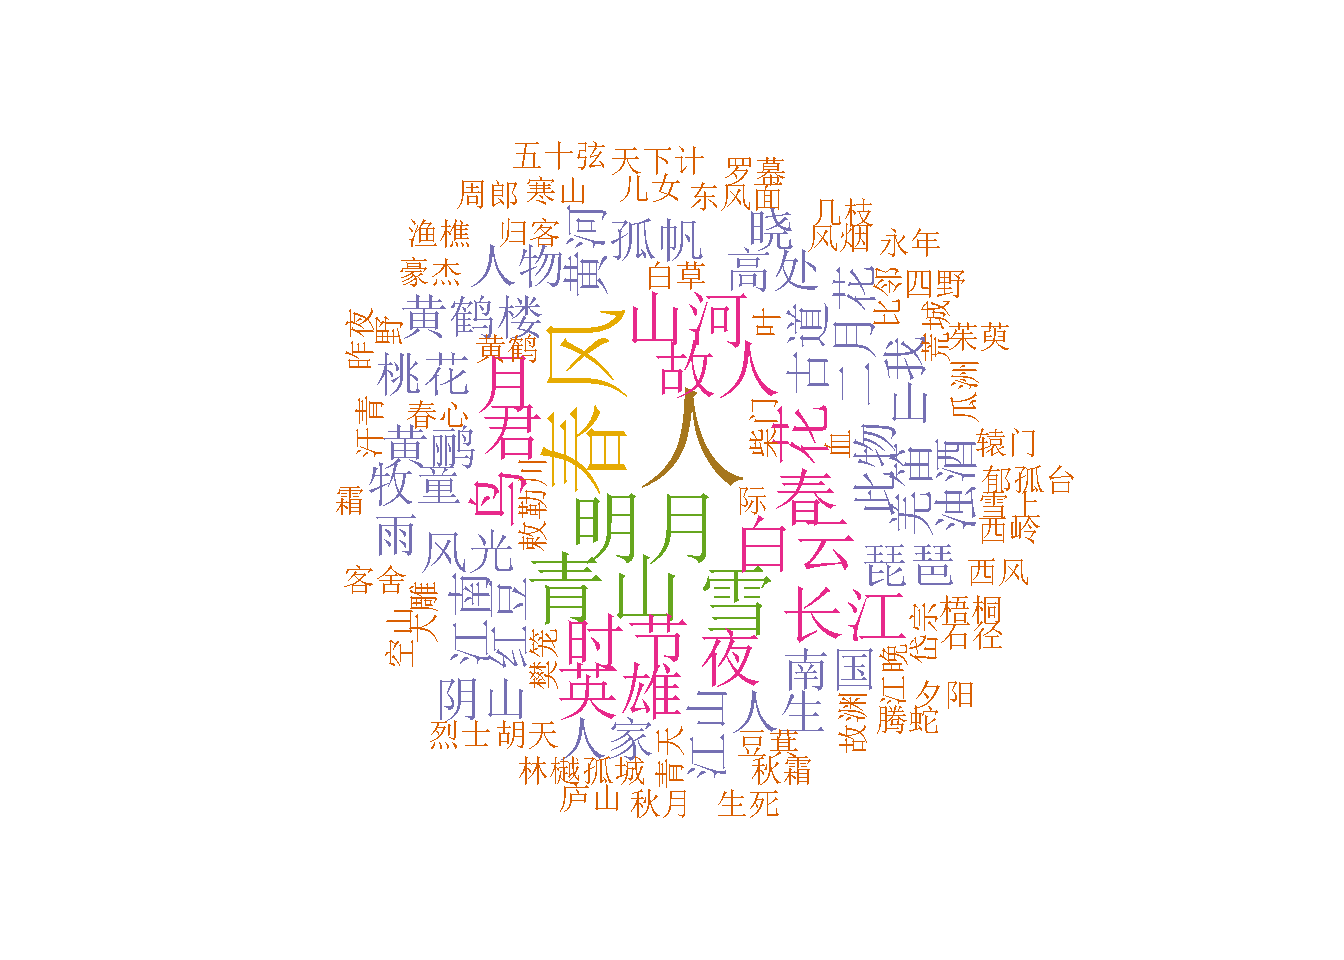
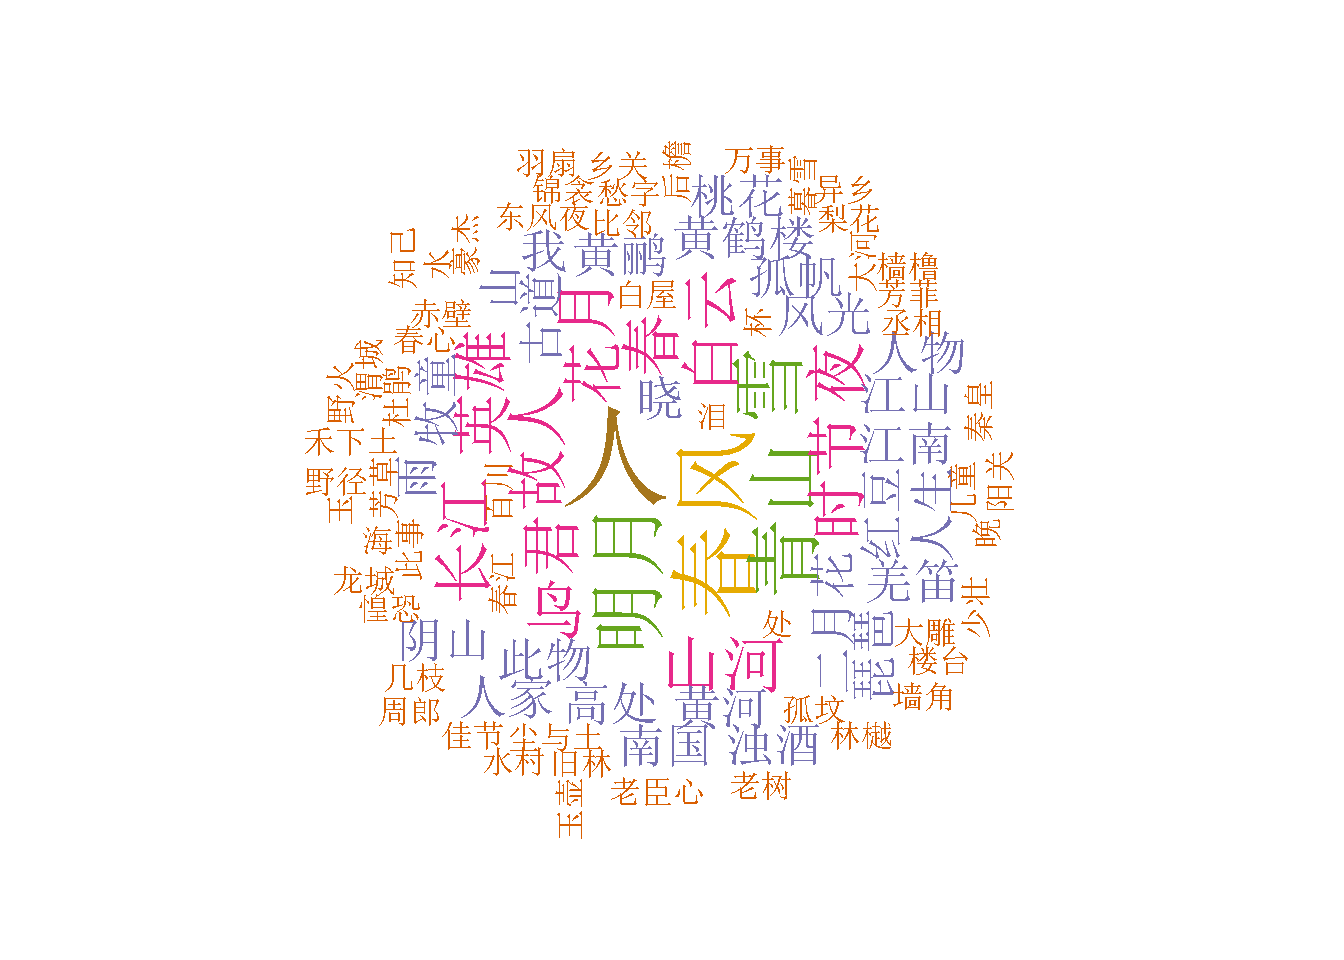
add tcm

Changed region(s): [[0.2188, 0.1562, 0.7812, 0.875]]

diff --git a/tcm.html b/tcm.html
@@ -11,7 +11,7 @@
 
 
 
-<title>Ancient Chinese Poems Exploration</title>
+<title>Traditional Chinese Medicines(TCM)</title>
 
 <script src="site_libs/header-attrs-2.16/header-attrs.js"></script>
 <script src="site_libs/jquery-3.6.0/jquery-3.6.0.min.js"></script>
@@ -279,63 +279,66 @@ $(document).ready(function () {
 
 
 
-<h1 class="title toc-ignore">Ancient Chinese Poems Exploration</h1>
+<h1 class="title toc-ignore">Traditional Chinese Medicines(TCM)</h1>
 
 </div>
 
 
-<hr />
 <div
-id="i-collected-famous-ancient-chinese-poems-and-mark-out-the-nouns-pronouns-verbs-adjectives-adverbs-quantifiers-words-then-do-the-exploration-recombination-maybe-re-creation"
+id="the-traditionalherbal-chinese-medicinestcm-have-been-applied-in-medical-field-in-oriental-countries-for-thousands-of-years-and-still-plays-important-roll-in-current-health-care-in-those-regions."
 class="section level3">
-<h3><strong><em>I collected famous ancient Chinese poems and mark out
-the nouns, pronouns, verbs, adjectives, adverbs &amp; quantifiers words,
-then do the exploration, recombination, maybe
-re-creation…</em></strong></h3>
-<div
-id="我收集了中国古诗词标出其中的名词代词动词形容词副词和量词做了高频词图"
+<h3><strong><em>The Traditional/Herbal Chinese Medicines(TCM) have been
+applied in medical field in oriental countries for thousands of years
+and still plays important roll in current health care in those
+regions.</em></strong></h3>
+<div id="中医在东方应用了数千年对当地人的健康起了重要影响"
 class="section level4">
-<h4><strong><em>我收集了中国古诗词，标出其中的名词、代词、动词、形容词、副词和量词，做了高频词图</em></strong></h4>
+<h4><strong><em>中医在东方应用了数千年，对当地人的健康起了重要影响</em></strong></h4>
+</div>
+</div>
+<div
+id="although-the-theories-looks-different-from-modern-medicine-there-are-thousands-of-herbs-used-prescriptions-developed-for-treatment-and-quite-amount-of-them-are-considered-effective."
+class="section level3">
+<h3><strong><em>Although the theories looks different from modern
+medicine, there are thousands of herbs used &amp; prescriptions
+developed for treatment, and quite amount of them are considered
+‘effective’.</em></strong></h3>
+<div
+id="尽管中医理论异于现代医学其中数千草药数万药方的治疗功效还是明显的"
+class="section level4">
+<h4><strong><em>尽管中医理论异于现代医学，其中数千草药、数万药方的治疗功效还是明显的</em></strong></h4>
+</div>
+</div>
+<div
+id="by-collecting-cleaning-thousands-of-herbs-prescriptions-record-i-cleaned-them-and-will-keep-collecting-them-in-a-modern-data-structure-and-make-them-ready-for-modern-data-analysis."
+class="section level3">
+<h3><strong><em>By collecting &amp; cleaning thousands of herbs &amp;
+prescriptions record, I cleaned them (and will keep collecting them) in
+a modern data structure and make them ready for modern data
+analysis.</em></strong></h3>
+<div id="在收集了大量药方后我清理了数据希望能用现代方法进行分析"
+class="section level4">
+<h4><strong><em>在收集了大量药方后，我清理了数据，希望能用现代方法进行分析</em></strong></h4>
 <hr />
 </div>
 </div>
 <div
-id="the-word-cloud-of-the-nouns-or-pronouns-used-in-ancient-chinese-poems"
+id="there-are-51974-traditional-chinese-medicine-prescriptions-collected."
 class="section level3">
-<h3><strong><em>The word cloud of the nouns or pronouns used in ancient
-Chinese poems</em></strong></h3>
-<div id="古诗中的名词代词的高频词" class="section level4">
-<h4><strong><em>古诗中的名词、代词的高频词</em></strong></h4>
-<p><img src="acps_files/figure-html/dataClean-1.png" width="672" /></p>
-</div>
-</div>
-<div id="the-word-cloud-of-the-verbs-used-in-ancient-chinese-poems"
-class="section level3">
-<h3><strong><em>The word cloud of the verbs used in ancient Chinese
-poems</em></strong></h3>
-<div id="古诗中的动词的高频词" class="section level4">
-<h4><strong><em>古诗中的动词的高频词</em></strong></h4>
-<p><img src="acps_files/figure-html/verbPart-1.png" width="672" /></p>
+<h3><strong><em>There are 51974 traditional Chinese medicine
+prescriptions collected.</em></strong></h3>
+<div id="这里收集了-51974中药处方" class="section level4">
+<h4><strong><em>这里收集了 51974中药处方。</em></strong></h4>
 </div>
 </div>
 <div
-id="the-word-cloud-of-the-adjectives-adverbs-used-in-ancient-chinese-poems"
+id="the-word-cloud-of-the-cures-that-precriptions-cure-are-as-follow"
 class="section level3">
-<h3><strong><em>The word cloud of the adjectives, adverbs used in
-ancient Chinese poems</em></strong></h3>
-<div id="古诗中的形容词副词的高频词" class="section level4">
-<h4><strong><em>古诗中的形容词、副词的高频词</em></strong></h4>
-<p><img src="acps_files/figure-html/adjPart-1.png" width="672" /></p>
-</div>
-</div>
-<div
-id="the-word-cloud-of-the-quantifiers-used-in-ancient-chinese-poems"
-class="section level3">
-<h3><strong><em>The word cloud of the quantifiers used in ancient
-Chinese poems</em></strong></h3>
-<div id="古诗中的量词的高频词" class="section level4">
-<h4><strong><em>古诗中的量词的高频词</em></strong></h4>
-<p><img src="acps_files/figure-html/quantPart-1.png" width="672" /></p>
+<h3><strong><em>The word cloud of the Cures that precriptions cure are
+as follow:</em></strong></h3>
+<div id="药方主治高频词图如下" class="section level4">
+<h4><strong><em>药方主治高频词图如下：</em></strong></h4>
+<p><img src="tcm_files/figure-html/dataClean-1.png" width="672" /></p>
 </div>
 </div>
 

diff --git a/index.html b/index.html
@@ -262,6 +262,9 @@ $(document).ready(function () {
   <a href="chist.html">China History</a>
 </li>
 <li>
+  <a href="stats.html">Statistics</a>
+</li>
+<li>
   <a href="neuro.html">Neuroscience</a>
 </li>
       </ul>
